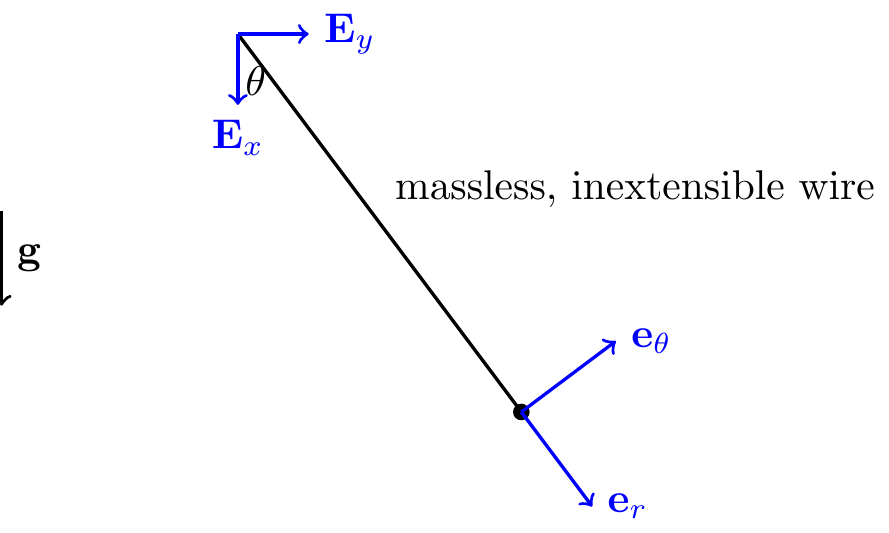
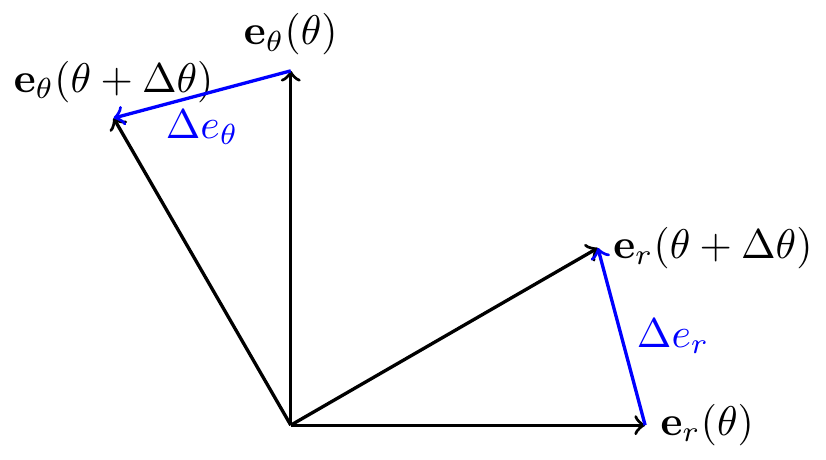
Built site for gh-pages

diff --git a/particle_dynamics/cylindrical_polar_coordinates.html b/particle_dynamics/cylindrical_polar_coordinates.html
@@ -377,22 +377,21 @@ window.Quarto = {
     <h2 id="toc-title">Table of contents</h2>
    
   <ul>
-  <li><a href="#polar-coordinates" id="toc-polar-coordinates" class="nav-link active" data-scroll-target="#polar-coordinates"><span class="header-section-number">9.1</span> Polar Coordinates</a>
+  <li><a href="#polar-basis" id="toc-polar-basis" class="nav-link active" data-scroll-target="#polar-basis"><span class="header-section-number">9.1</span> Polar Basis</a></li>
+  <li><a href="#kinematics-in-polar-coordinates" id="toc-kinematics-in-polar-coordinates" class="nav-link" data-scroll-target="#kinematics-in-polar-coordinates"><span class="header-section-number">9.2</span> Kinematics in Polar Coordinates</a></li>
+  <li><a href="#example-nonlinear-pendulum" id="toc-example-nonlinear-pendulum" class="nav-link" data-scroll-target="#example-nonlinear-pendulum"><span class="header-section-number">9.3</span> Example: Nonlinear Pendulum</a></li>
+  <li><a href="#types-of-accelerations-explained" id="toc-types-of-accelerations-explained" class="nav-link" data-scroll-target="#types-of-accelerations-explained"><span class="header-section-number">9.4</span> Types of Accelerations Explained</a>
   <ul class="collapse">
-  <li><a href="#example-nonlinear-pendulum" id="toc-example-nonlinear-pendulum" class="nav-link" data-scroll-target="#example-nonlinear-pendulum"><span class="header-section-number">9.1.1</span> Example: Nonlinear Pendulum</a></li>
+  <li><a href="#example-particle-in-a-rotating-tube" id="toc-example-particle-in-a-rotating-tube" class="nav-link" data-scroll-target="#example-particle-in-a-rotating-tube"><span class="header-section-number">9.4.1</span> Example: Particle in a Rotating Tube</a></li>
+  <li><a href="#example-particle-pushed-in-a-circle" id="toc-example-particle-pushed-in-a-circle" class="nav-link" data-scroll-target="#example-particle-pushed-in-a-circle"><span class="header-section-number">9.4.2</span> Example: Particle Pushed in a Circle</a></li>
   </ul></li>
-  <li><a href="#types-of-accelerations-explained" id="toc-types-of-accelerations-explained" class="nav-link" data-scroll-target="#types-of-accelerations-explained"><span class="header-section-number">9.2</span> Types of Accelerations Explained</a>
+  <li><a href="#cylindrical-polar-coordinates" id="toc-cylindrical-polar-coordinates" class="nav-link" data-scroll-target="#cylindrical-polar-coordinates"><span class="header-section-number">9.5</span> Cylindrical-Polar Coordinates</a>
   <ul class="collapse">
-  <li><a href="#example-particle-in-a-rotating-tube" id="toc-example-particle-in-a-rotating-tube" class="nav-link" data-scroll-target="#example-particle-in-a-rotating-tube"><span class="header-section-number">9.2.1</span> Example: Particle in a Rotating Tube</a></li>
-  <li><a href="#example-particle-pushed-in-a-circle" id="toc-example-particle-pushed-in-a-circle" class="nav-link" data-scroll-target="#example-particle-pushed-in-a-circle"><span class="header-section-number">9.2.2</span> Example: Particle Pushed in a Circle</a></li>
+  <li><a href="#example-particle-on-a-cone" id="toc-example-particle-on-a-cone" class="nav-link" data-scroll-target="#example-particle-on-a-cone"><span class="header-section-number">9.5.1</span> Example: Particle on a Cone</a></li>
   </ul></li>
-  <li><a href="#cylindrical-polar-coordinates" id="toc-cylindrical-polar-coordinates" class="nav-link" data-scroll-target="#cylindrical-polar-coordinates"><span class="header-section-number">9.3</span> Cylindrical-Polar Coordinates</a>
-  <ul class="collapse">
-  <li><a href="#example-particle-on-a-cone" id="toc-example-particle-on-a-cone" class="nav-link" data-scroll-target="#example-particle-on-a-cone"><span class="header-section-number">9.3.1</span> Example: Particle on a Cone</a></li>
-  </ul></li>
-  <li><a href="#summary" id="toc-summary" class="nav-link" data-scroll-target="#summary"><span class="header-section-number">9.4</span> Summary</a></li>
-  <li><a href="#lecture-videos" id="toc-lecture-videos" class="nav-link" data-scroll-target="#lecture-videos"><span class="header-section-number">9.5</span> Lecture Videos</a></li>
-  <li><a href="#exercises" id="toc-exercises" class="nav-link" data-scroll-target="#exercises"><span class="header-section-number">9.6</span> Exercises</a></li>
+  <li><a href="#summary" id="toc-summary" class="nav-link" data-scroll-target="#summary"><span class="header-section-number">9.6</span> Summary</a></li>
+  <li><a href="#lecture-videos" id="toc-lecture-videos" class="nav-link" data-scroll-target="#lecture-videos"><span class="header-section-number">9.7</span> Lecture Videos</a></li>
+  <li><a href="#exercises" id="toc-exercises" class="nav-link" data-scroll-target="#exercises"><span class="header-section-number">9.8</span> Exercises</a></li>
   </ul>
 </nav>
     </div>
@@ -431,18 +430,18 @@ window.Quarto = {
 
 
 <p>The cylindrical polar coordinate system is three-dimensional. We start by introducing the two-dimensional polar basis, then extend it to three dimensions.</p>
-<section id="polar-coordinates" class="level2" data-number="9.1">
-<h2 data-number="9.1" class="anchored" data-anchor-id="polar-coordinates"><span class="header-section-number">9.1</span> Polar Coordinates</h2>
+<section id="polar-basis" class="level2" data-number="9.1">
+<h2 data-number="9.1" class="anchored" data-anchor-id="polar-basis"><span class="header-section-number">9.1</span> Polar Basis</h2>
 <div class="cell" data-layout-align="center">
 <div class="cell-output-display">
 <div class="quarto-figure quarto-figure-center">
 <figure class="figure">
-<p><img src="cylindrical_polar_coordinates_files/figure-html/unnamed-chunk-1-1.png" class="img-fluid quarto-figure quarto-figure-center figure-img" width="672"></p>
+<p><img src="cylindrical_polar_coordinates_files/figure-html/unnamed-chunk-1-1.png" class="img-fluid quarto-figure quarto-figure-center figure-img" width="288"></p>
 </figure>
 </div>
 </div>
 </div>
-<p>Consider <span class="math inline">\(\mathbb{E}^2\)</span>. Define: <span class="math display">\[\begin{align}
+<p>Consider a particle in motion in the two dimensional Euclidean space <span class="math inline">\(\mathbb{E}^2\)</span>. Define: <span class="math display">\[\begin{align}
     r = \sqrt{x^2+y^2}\geq 0, \qquad \theta = \tan^{-1}\lp\frac{y}{x}\rp.
 \end{align}\]</span> So <span class="math inline">\(x = r\cos(\theta)\)</span> and <span class="math inline">\(y = r\sin(\theta)\)</span>.</p>
 <p>Define the basis <span class="math inline">\(\{{\bf e}_r,{\bf e}_\theta\}\)</span> as a rotation of <span class="math inline">\(\{{\bf E}_x,{\bf E}_y\}\)</span> by angle <span class="math inline">\(\theta\)</span> (positive CCW about <span class="math inline">\({\bf E}_z\)</span>):</p>
@@ -450,7 +449,7 @@ window.Quarto = {
 <div class="cell-output-display">
 <div class="quarto-figure quarto-figure-center">
 <figure class="figure">
-<p><img src="cylindrical_polar_coordinates_files/figure-html/unnamed-chunk-2-1.png" class="img-fluid quarto-figure quarto-figure-center figure-img" width="672"></p>
+<p><img src="cylindrical_polar_coordinates_files/figure-html/unnamed-chunk-2-1.png" class="img-fluid quarto-figure quarto-figure-center figure-img" width="96"></p>
 </figure>
 </div>
 </div>
@@ -492,12 +491,6 @@ window.Quarto = {
 <li><span class="math inline">\({\bf e}_r\)</span> points in the direction of increasing <span class="math inline">\(r\)</span>.</li>
 <li><span class="math inline">\({\bf e}_\theta\)</span> points in the direction of increasing <span class="math inline">\(\theta\)</span>.</li>
 </ul>
-<div class="quarto-figure quarto-figure-center">
-<figure class="figure">
-<p><img src="../figures/cylindrical_polar_coordinates/polar_basis.png" class="img-fluid figure-img" style="width:50.0%"></p>
-<figcaption>Polar basis <span class="math inline">\(\{{\bf e}_r,{\bf e}_\theta\}\)</span>.</figcaption>
-</figure>
-</div>
 <div class="callout callout-style-default callout-tip callout-titled" title="Think!">
 <div class="callout-header d-flex align-content-center">
 <div class="callout-icon-container">
@@ -508,7 +501,7 @@ window.Quarto = {
 </div>
 </div>
 <div class="callout-body-container callout-body">
-<p><strong>Question:</strong> Calculate <span class="math inline">\(\dot{\bf e}_r\)</span> and <span class="math inline">\(\dot{\bf e}_\theta\)</span>.</p>
+<p><strong>Question:</strong> Calculate <span class="math inline">\(\dot{\bf e}_r (=\dot{\theta}{\bf e}_\theta)\)</span> and <span class="math inline">\(\dot{\bf e}_\theta (= \dot{\bf e}_r)\)</span>.</p>
 <div class="callout callout-style-default callout-note callout-titled" title="Answer">
 <div class="callout-header d-flex align-content-center collapsed" data-bs-toggle="collapse" data-bs-target=".callout-3-contents" aria-controls="callout-3" aria-expanded="false" aria-label="Toggle callout">
 <div class="callout-icon-container">
@@ -522,20 +515,36 @@ window.Quarto = {
 <div id="callout-3" class="callout-3-contents callout-collapse collapse">
 <div class="callout-body-container callout-body">
 <p><span class="math display">\[\begin{align}
-    \dot{\bf e}_r = \dot{\theta}{\bf e}_\theta, \qquad \dot{\bf e}_\theta = -\dot{\theta}{\bf e}_r.
+    \begin{split}
+        {\bf e}_r = {\bf e}_r(\theta) &amp;\implies \frac{d{\bf e}_r}{d\theta} = -\sin(\theta){\bf E}_x+\cos(\theta){\bf E}_y = {\bf e}_\theta\\
+        {\bf e}_\theta = {\bf e}_\theta(\theta) &amp;\implies \frac{d{\bf e}_\theta}{d\theta} = -\cos(\theta){\bf E}_x-\sin(\theta){\bf E}_y = -{\bf e}_r
+    \end{split}
 \end{align}\]</span></p>
 </div>
 </div>
 </div>
 </div>
 </div>
+<p>You can also see this result geometrically,</p>
+<div class="cell" data-layout-align="center">
+<div class="cell-output-display">
 <div class="quarto-figure quarto-figure-center">
 <figure class="figure">
-<p><img src="../figures/cylindrical_polar_coordinates/polar_basis_derivatives.png" class="img-fluid figure-img" style="width:50.0%"></p>
-<figcaption>Derivatives of the polar basis.</figcaption>
+<p><img src="cylindrical_polar_coordinates_files/figure-html/unnamed-chunk-3-1.png" class="img-fluid quarto-figure quarto-figure-center figure-img" width="96"></p>
 </figure>
 </div>
-<p>The position vector is <span class="math inline">\({\bf r} = r{\bf e}_r\)</span> (with <span class="math inline">\(r\geq 0\)</span>).</p>
+</div>
+</div>
+<p>Thus, for small <span class="math inline">\(d\theta&gt;0\)</span>, <span class="math display">\[\begin{align}
+    \begin{split}
+        {\bf e}_r(\theta+d\theta)-{\bf e}_r(\theta) &amp;\text{ points in the direction of }{\bf e}_\theta(\theta)\\
+        {\bf e}_\theta(\theta+d\theta)-{\bf e}_\theta(\theta) &amp;\text{ points in the direction of }-{\bf e}_r(\theta)
+    \end{split}
+\end{align}\]</span></p>
+</section>
+<section id="kinematics-in-polar-coordinates" class="level2" data-number="9.2">
+<h2 data-number="9.2" class="anchored" data-anchor-id="kinematics-in-polar-coordinates"><span class="header-section-number">9.2</span> Kinematics in Polar Coordinates</h2>
+<p>We can write the position vector to the particle as <span class="math inline">\({\bf r} = r{\bf e}_r\)</span> (with <span class="math inline">\(r\geq 0\)</span>). Note that <span class="math inline">\({\bf e}_r\)</span> is a function of <span class="math inline">\(\theta\)</span>. Both <span class="math inline">\(r\)</span> and <span class="math inline">\(\theta\)</span> are functions of time <span class="math inline">\(t\)</span>.</p>
 <div class="callout callout-style-default callout-tip callout-titled" title="Think!">
 <div class="callout-header d-flex align-content-center">
 <div class="callout-icon-container">
@@ -560,14 +569,23 @@ window.Quarto = {
 <div id="callout-5" class="callout-5-contents callout-collapse collapse">
 <div class="callout-body-container callout-body">
 <p><span class="math display">\[\begin{align*}
-    {\bf v} &amp;= \dot{r}{\bf e}_r+r\dot{\theta}{\bf e}_\theta,\\
-    {\bf a} &amp;= \lp \ddot{r}-r\dot{\theta}^2\rp{\bf e}_r+\lp 2\dot{r}\dot{\theta}+r\ddot{\theta}\rp{\bf e}_\theta.
+    {\bf v} &amp;= \dot{r}{\bf e}_r+r\dot{\bf e}_r\\
+    &amp;= \dot{r}{\bf e}_r+r\frac{d{\bf e}_r}{d\theta}\dot{\theta}\\
+    &amp;= \dot{r}{\bf e}_r+r\dot{\theta}{\bf e}_\theta.\\
+    {\bf a} &amp;= \ddot{r}{\bf e}_r+\dot{r}\dot{\bf e}_r+\dot{r}\dot{\theta}{\bf e}_\theta+r\ddot{\theta}{\bf e}_\theta+r\dot{\theta}\dot{\bf e}_\theta\\
+    &amp;= \lp \ddot{r}-r\dot{\theta}^2\rp{\bf e}_r+\lp 2\dot{r}\dot{\theta}+r\ddot{\theta}\rp{\bf e}_\theta.
 \end{align*}\]</span></p>
 </div>
 </div>
 </div>
 </div>
 </div>
+<p><span class="math display">\[\begin{align*}
+    {\bf r} &amp;= r{\bf e}_r+0{\bf e}_\theta\\
+    {\bf v} &amp;= v_r{\bf e}_r+v_\theta{\bf e}_\theta\\
+    {\bf a} &amp;= a_r{\bf e}_r+a_\theta{\bf e}_\theta
+\end{align*}\]</span></p>
+<p><strong>Remark: <span class="math inline">\(a_r \neq \dot{v}_r\)</span>.</strong> Be careful: <span class="math inline">\(v_r = \dot{r}\)</span> so <span class="math inline">\(\dot{v}_r = \ddot{r}\)</span>, but <span class="math inline">\(a_r = \ddot{r} - r\dot{\theta}^2 \neq \dot{v}_r\)</span> in general.</p>
 <p>Note the components of acceleration:</p>
 <ul>
 <li><span class="math inline">\(r\ddot{\theta}\)</span>: tangential</li>
@@ -575,17 +593,16 @@ window.Quarto = {
 <li><span class="math inline">\(r\dot{\theta}^2\)</span>: centripetal</li>
 <li><span class="math inline">\(2\dot{r}\dot{\theta}\)</span>: Coriolis</li>
 </ul>
-<p><strong>Remark: <span class="math inline">\(a_r \neq \dot{v}_r\)</span>.</strong> Be careful: <span class="math inline">\(v_r = \dot{r}\)</span> so <span class="math inline">\(\dot{v}_r = \ddot{r}\)</span>, but <span class="math inline">\(a_r = \ddot{r} - r\dot{\theta}^2 \neq \dot{v}_r\)</span> in general.</p>
-<p>For rectilinear motions, Cartesian coordinates are usually easiest. For problems where <span class="math inline">\(r\)</span> is directly measured (e.g.&nbsp;radar tracking), polar coordinates are natural.</p>
-<section id="example-nonlinear-pendulum" class="level3" data-number="9.1.1">
-<h3 data-number="9.1.1" class="anchored" data-anchor-id="example-nonlinear-pendulum"><span class="header-section-number">9.1.1</span> Example: Nonlinear Pendulum</h3>
+<p><strong>Remark: When to use polar vs Cartesiancoordinates?</strong> For rectilinear motions, Cartesian coordinates are usually easiest. For problems where <span class="math inline">\(r\)</span> is directly measured (e.g.&nbsp;radar tracking), polar coordinates are natural.</p>
+</section>
+<section id="example-nonlinear-pendulum" class="level2" data-number="9.3">
+<h2 data-number="9.3" class="anchored" data-anchor-id="example-nonlinear-pendulum"><span class="header-section-number">9.3</span> Example: Nonlinear Pendulum</h2>
 <p>Consider a particle of mass <span class="math inline">\(m\)</span> suspended from a rigid inextensible string of length <span class="math inline">\(\ell\)</span>. Find the equation of motion.</p>
-<p><img src="../figures/cylindrical_polar_coordinates/pendulum_setup.JPG" class="img-fluid" style="width:50.0%" alt="Pendulum setup."> <img src="../figures/cylindrical_polar_coordinates/pendulum_fbd.JPG" class="img-fluid" style="width:50.0%" alt="Pendulum free body diagram."></p>
 <div class="cell" data-layout-align="center">
 <div class="cell-output-display">
 <div class="quarto-figure quarto-figure-center">
 <figure class="figure">
-<p><img src="cylindrical_polar_coordinates_files/figure-html/unnamed-chunk-3-1.png" class="img-fluid quarto-figure quarto-figure-center figure-img" width="672"></p>
+<p><img src="cylindrical_polar_coordinates_files/figure-html/unnamed-chunk-4-1.png" class="img-fluid quarto-figure quarto-figure-center figure-img" width="192"></p>
 </figure>
 </div>
 </div>
@@ -668,9 +685,8 @@ mg{\bf E}_x-T{\bf e}_r &amp;= m\ell\lp\ddot{\theta}{\bf e}_\theta-\dot{\theta}^2
 </ol>
 <p>Projecting along <span class="math inline">\({\bf e}_r\)</span> gives the tension: <span class="math inline">\(T = m\lp\ell\dot{\theta}^2+g\cos(\theta)\rp\)</span>.</p>
 </section>
-</section>
-<section id="types-of-accelerations-explained" class="level2" data-number="9.2">
-<h2 data-number="9.2" class="anchored" data-anchor-id="types-of-accelerations-explained"><span class="header-section-number">9.2</span> Types of Accelerations Explained</h2>
+<section id="types-of-accelerations-explained" class="level2" data-number="9.4">
+<h2 data-number="9.4" class="anchored" data-anchor-id="types-of-accelerations-explained"><span class="header-section-number">9.4</span> Types of Accelerations Explained</h2>
 <p>Recall: <span class="math display">\[\begin{align*}
     {\bf a} = \lp\ddot{r}-r\dot{\theta}^2\rp{\bf e}_r+\lp2\dot{r}\dot{\theta}+r\ddot{\theta}\rp{\bf e}_\theta.
 \end{align*}\]</span></p>
@@ -681,15 +697,15 @@ mg{\bf E}_x-T{\bf e}_r &amp;= m\ell\lp\ddot{\theta}{\bf e}_\theta-\dot{\theta}^2
 <li><strong>Tangential</strong> <span class="math inline">\(r\ddot{\theta}\)</span>: particle pushed along a circle.</li>
 </ul>
 <p><img src="../figures/cylindrical_polar_coordinates/rddot.png" class="img-fluid" style="width:50.0%" alt="Radial (\ddot{r}) acceleration."> <img src="../figures/cylindrical_polar_coordinates/centripetal_acceleration.png" class="img-fluid" style="width:50.0%" alt="Centripetal (-r\dot\theta^2) acceleration."> <img src="../figures/cylindrical_polar_coordinates/coriolis_acceleration.png" class="img-fluid" style="width:50.0%" alt="Coriolis (2\dot{r}\dot\theta) acceleration."> <img src="../figures/cylindrical_polar_coordinates/tangential_acceleration.png" class="img-fluid" style="width:50.0%" alt="Tangential (r\ddot\theta) acceleration."></p>
-<section id="example-particle-in-a-rotating-tube" class="level3" data-number="9.2.1">
-<h3 data-number="9.2.1" class="anchored" data-anchor-id="example-particle-in-a-rotating-tube"><span class="header-section-number">9.2.1</span> Example: Particle in a Rotating Tube</h3>
+<section id="example-particle-in-a-rotating-tube" class="level3" data-number="9.4.1">
+<h3 data-number="9.4.1" class="anchored" data-anchor-id="example-particle-in-a-rotating-tube"><span class="header-section-number">9.4.1</span> Example: Particle in a Rotating Tube</h3>
 <p><span class="math inline">\(\dot{\theta} = \omega = \text{const.}\)</span>, <span class="math inline">\(\ddot{\theta} = 0\)</span>.</p>
 <p><img src="../figures/cylindrical_polar_coordinates/particle_in_rotating_tube.png" class="img-fluid" style="width:50.0%" alt="Rotating tube setup."> <img src="../figures/cylindrical_polar_coordinates/particle_in_tube_fbd.JPG" class="img-fluid" style="width:50.0%" alt="Free body diagram."></p>
 <div class="cell" data-layout-align="center">
 <div class="cell-output-display">
 <div class="quarto-figure quarto-figure-center">
 <figure class="figure">
-<p><img src="cylindrical_polar_coordinates_files/figure-html/unnamed-chunk-4-1.png" class="img-fluid quarto-figure quarto-figure-center figure-img" width="672"></p>
+<p><img src="cylindrical_polar_coordinates_files/figure-html/unnamed-chunk-5-1.png" class="img-fluid quarto-figure quarto-figure-center figure-img" width="672"></p>
 </figure>
 </div>
 </div>
@@ -719,8 +735,8 @@ mg{\bf E}_x-T{\bf e}_r &amp;= m\ell\lp\ddot{\theta}{\bf e}_\theta-\dot{\theta}^2
 </div>
 <p><img src="../figures/cylindrical_polar_coordinates/particle_in_tube_normal.png" class="img-fluid" style="width:50.0%" alt="Normal force on particle in tube."> <img src="../figures/cylindrical_polar_coordinates/rotating_tube_velocity_profile.png" class="img-fluid" style="width:50.0%" alt="Velocity profile in rotating tube."></p>
 </section>
-<section id="example-particle-pushed-in-a-circle" class="level3" data-number="9.2.2">
-<h3 data-number="9.2.2" class="anchored" data-anchor-id="example-particle-pushed-in-a-circle"><span class="header-section-number">9.2.2</span> Example: Particle Pushed in a Circle</h3>
+<section id="example-particle-pushed-in-a-circle" class="level3" data-number="9.4.2">
+<h3 data-number="9.4.2" class="anchored" data-anchor-id="example-particle-pushed-in-a-circle"><span class="header-section-number">9.4.2</span> Example: Particle Pushed in a Circle</h3>
 <div class="quarto-figure quarto-figure-center">
 <figure class="figure">
 <p><img src="../figures/cylindrical_polar_coordinates/particle_pushed_on_circle.png" class="img-fluid figure-img" style="width:50.0%"></p>
@@ -734,8 +750,8 @@ mg{\bf E}_x-T{\bf e}_r &amp;= m\ell\lp\ddot{\theta}{\bf e}_\theta-\dot{\theta}^2
 \end{align*}\]</span></p>
 </section>
 </section>
-<section id="cylindrical-polar-coordinates" class="level2" data-number="9.3">
-<h2 data-number="9.3" class="anchored" data-anchor-id="cylindrical-polar-coordinates"><span class="header-section-number">9.3</span> Cylindrical-Polar Coordinates</h2>
+<section id="cylindrical-polar-coordinates" class="level2" data-number="9.5">
+<h2 data-number="9.5" class="anchored" data-anchor-id="cylindrical-polar-coordinates"><span class="header-section-number">9.5</span> Cylindrical-Polar Coordinates</h2>
 <p>In <span class="math inline">\(\mathbb{E}^3\)</span>, the polar system extends by adding <span class="math inline">\(z\)</span>: <span class="math display">\[\begin{align*}
     \begin{bmatrix}{\bf e}_r\\ {\bf e}_\theta\\ {\bf E}_z\end{bmatrix}
     =
@@ -747,15 +763,15 @@ mg{\bf E}_x-T{\bf e}_r &amp;= m\ell\lp\ddot{\theta}{\bf e}_\theta-\dot{\theta}^2
     {\bf v} &amp;= \dot{r}{\bf e}_r+r\dot{\theta}{\bf e}_\theta+\dot{z}{\bf E}_z,\\
     {\bf a} &amp;= \lp\ddot{r}-r\dot{\theta}^2\rp{\bf e}_r+\lp2\dot{r}\dot{\theta}+r\ddot{\theta}\rp{\bf e}_\theta+\ddot{z}{\bf E}_z.
 \end{align*}\]</span></p>
-<section id="example-particle-on-a-cone" class="level3" data-number="9.3.1">
-<h3 data-number="9.3.1" class="anchored" data-anchor-id="example-particle-on-a-cone"><span class="header-section-number">9.3.1</span> Example: Particle on a Cone</h3>
+<section id="example-particle-on-a-cone" class="level3" data-number="9.5.1">
+<h3 data-number="9.5.1" class="anchored" data-anchor-id="example-particle-on-a-cone"><span class="header-section-number">9.5.1</span> Example: Particle on a Cone</h3>
 <p>See animation for 03/067 <a href="https://drive.google.com/file/d/1d8FJqs0GMQU0FxUE3R66rfcSTCCHFTOu/view?usp=sharing">here</a>.</p>
 <p><img src="../figures/cylindrical_polar_coordinates/03-067.png" class="img-fluid" style="width:50.0%"></p>
 <p><img src="../figures/cylindrical_polar_coordinates/03-193.png" class="img-fluid" style="width:50.0%"></p>
 </section>
 </section>
-<section id="summary" class="level2" data-number="9.4">
-<h2 data-number="9.4" class="anchored" data-anchor-id="summary"><span class="header-section-number">9.4</span> Summary</h2>
+<section id="summary" class="level2" data-number="9.6">
+<h2 data-number="9.6" class="anchored" data-anchor-id="summary"><span class="header-section-number">9.6</span> Summary</h2>
 <p><strong>Cylindrical polar basis</strong> <span class="math inline">\(\{\mathbf{e}_r,\mathbf{e}_\theta,\mathbf{E}_z\}\)</span>: <span class="math display">\[\begin{align}
     \mathbf{e}_r &amp;= \cos\theta\,\mathbf{E}_x+\sin\theta\,\mathbf{E}_y, &amp;
     \mathbf{e}_\theta &amp;= -\sin\theta\,\mathbf{E}_x+\cos\theta\,\mathbf{E}_y, \\
@@ -768,12 +784,12 @@ mg{\bf E}_x-T{\bf e}_r &amp;= m\ell\lp\ddot{\theta}{\bf e}_\theta-\dot{\theta}^2
     \mathbf{a} &amp;= (\ddot r-r\dot\theta^2)\mathbf{e}_r + (r\ddot\theta+2\dot r\dot\theta)\mathbf{e}_\theta + \ddot z\,\mathbf{E}_z.
 \end{align}\]</span></p>
 </section>
-<section id="lecture-videos" class="level2" data-number="9.5">
-<h2 data-number="9.5" class="anchored" data-anchor-id="lecture-videos"><span class="header-section-number">9.5</span> Lecture Videos</h2>
+<section id="lecture-videos" class="level2" data-number="9.7">
+<h2 data-number="9.7" class="anchored" data-anchor-id="lecture-videos"><span class="header-section-number">9.7</span> Lecture Videos</h2>
 <div class="quarto-video"><iframe data-external="1" src="https://www.youtube.com/embed/pj7kitk0VcI" width="70%" title="Animating the motion of a pendulum in Python" frameborder="0" allow="accelerometer; autoplay; clipboard-write; encrypted-media; gyroscope; picture-in-picture" allowfullscreen=""></iframe></div>
 </section>
-<section id="exercises" class="level2" data-number="9.6">
-<h2 data-number="9.6" class="anchored" data-anchor-id="exercises"><span class="header-section-number">9.6</span> Exercises</h2>
+<section id="exercises" class="level2" data-number="9.8">
+<h2 data-number="9.8" class="anchored" data-anchor-id="exercises"><span class="header-section-number">9.8</span> Exercises</h2>
 <p><em>The following problems are from Set 05 – Cylindrical Polar Coordinates.</em></p>
 <p><strong>1.</strong> [MKB 2/121] Take the origin at the satellite; <span class="math inline">\(\mathbf{E}_x\)</span> rightwards, <span class="math inline">\(\mathbf{E}_y\)</span> upwards. Write the position in both cylindrical and Cartesian coordinates. <em>(ans. <span class="math inline">\(v = 360\)</span> m/s, <span class="math inline">\(a = 20.1\)</span> m/s<span class="math inline">\(^2\)</span>)</em></p>
 <div class="quarto-figure quarto-figure-center">